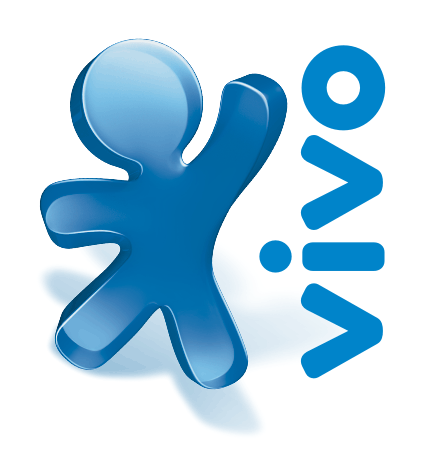
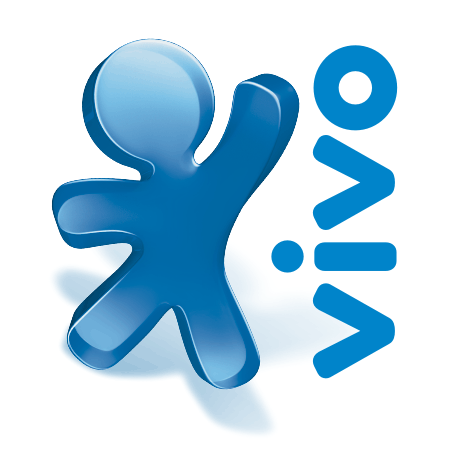
Janela de login modificado.

diff --git a/forms/frm_login.php b/forms/frm_login.php
@@ -16,7 +16,7 @@
             </div><!-- /.login-logo -->
             <div class="container-fluid">
                 <div class="col-md-8">
-                    
+                    <img src="./imagens/vivo.png">
                 </div>
                 <div class="col-md-4 thumbnail" style="padding: 15px;">
                     <p class="login-box-msg">Acesso ao WebMaxcel</p>
